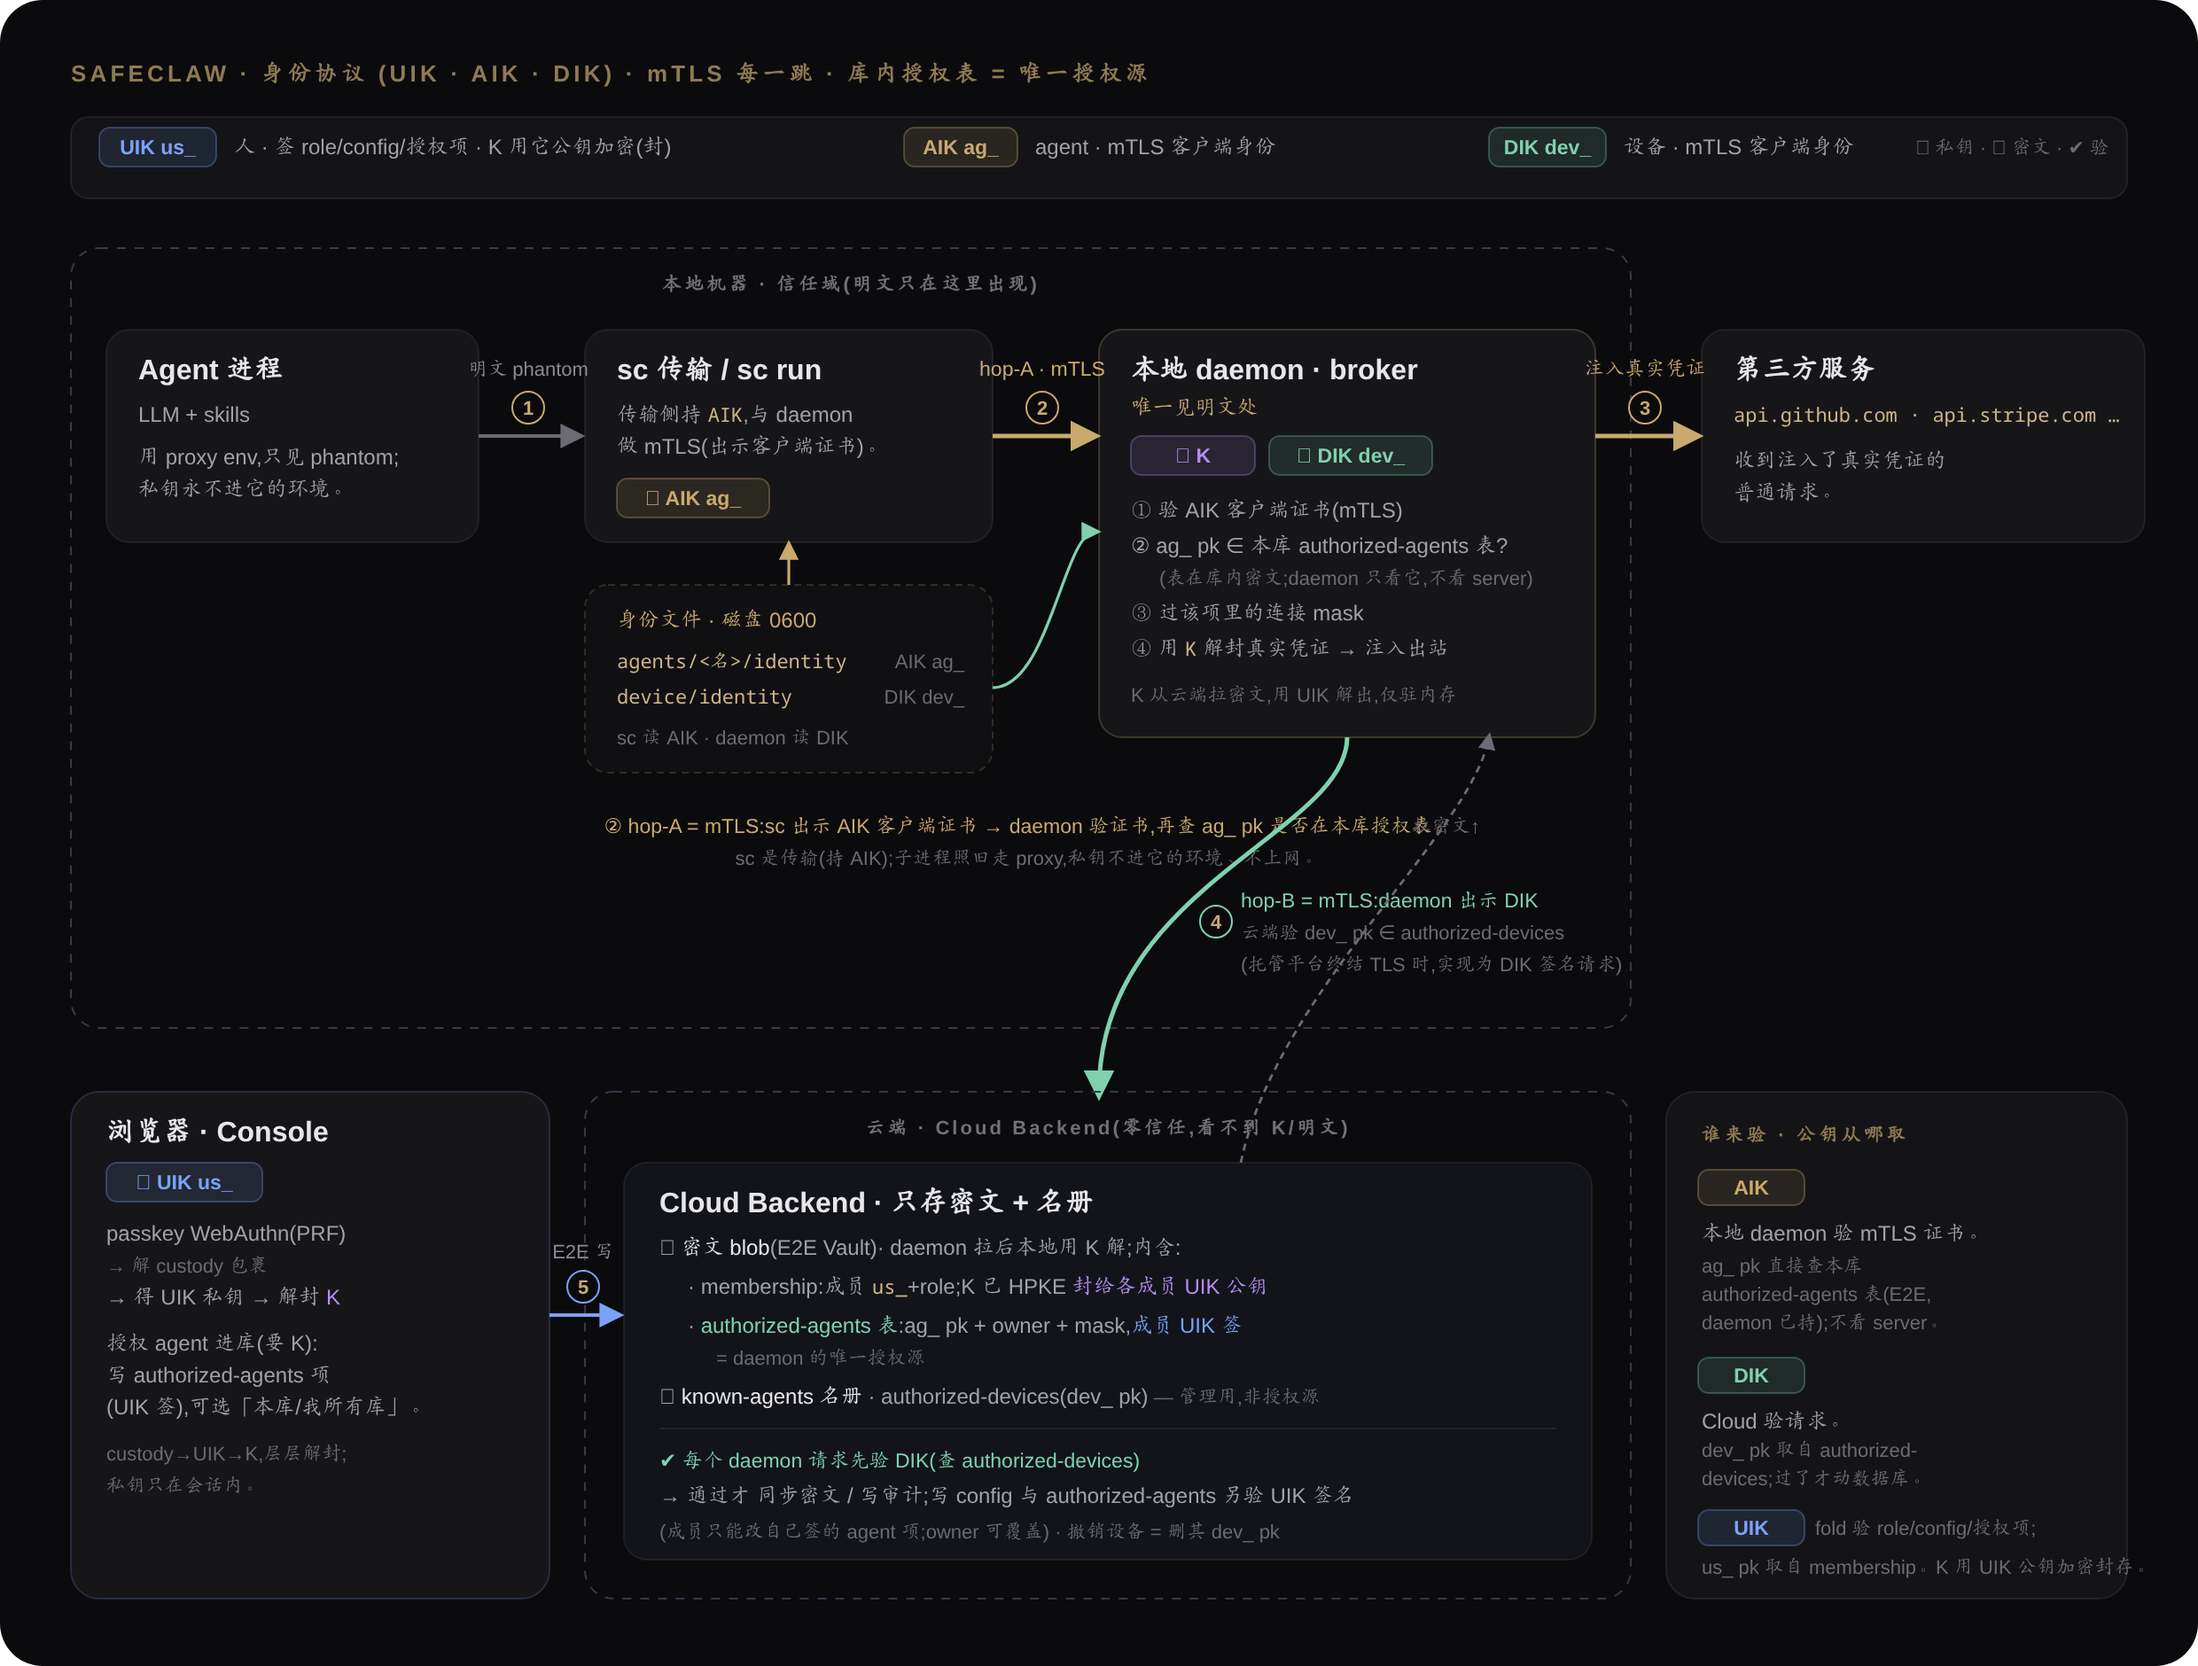
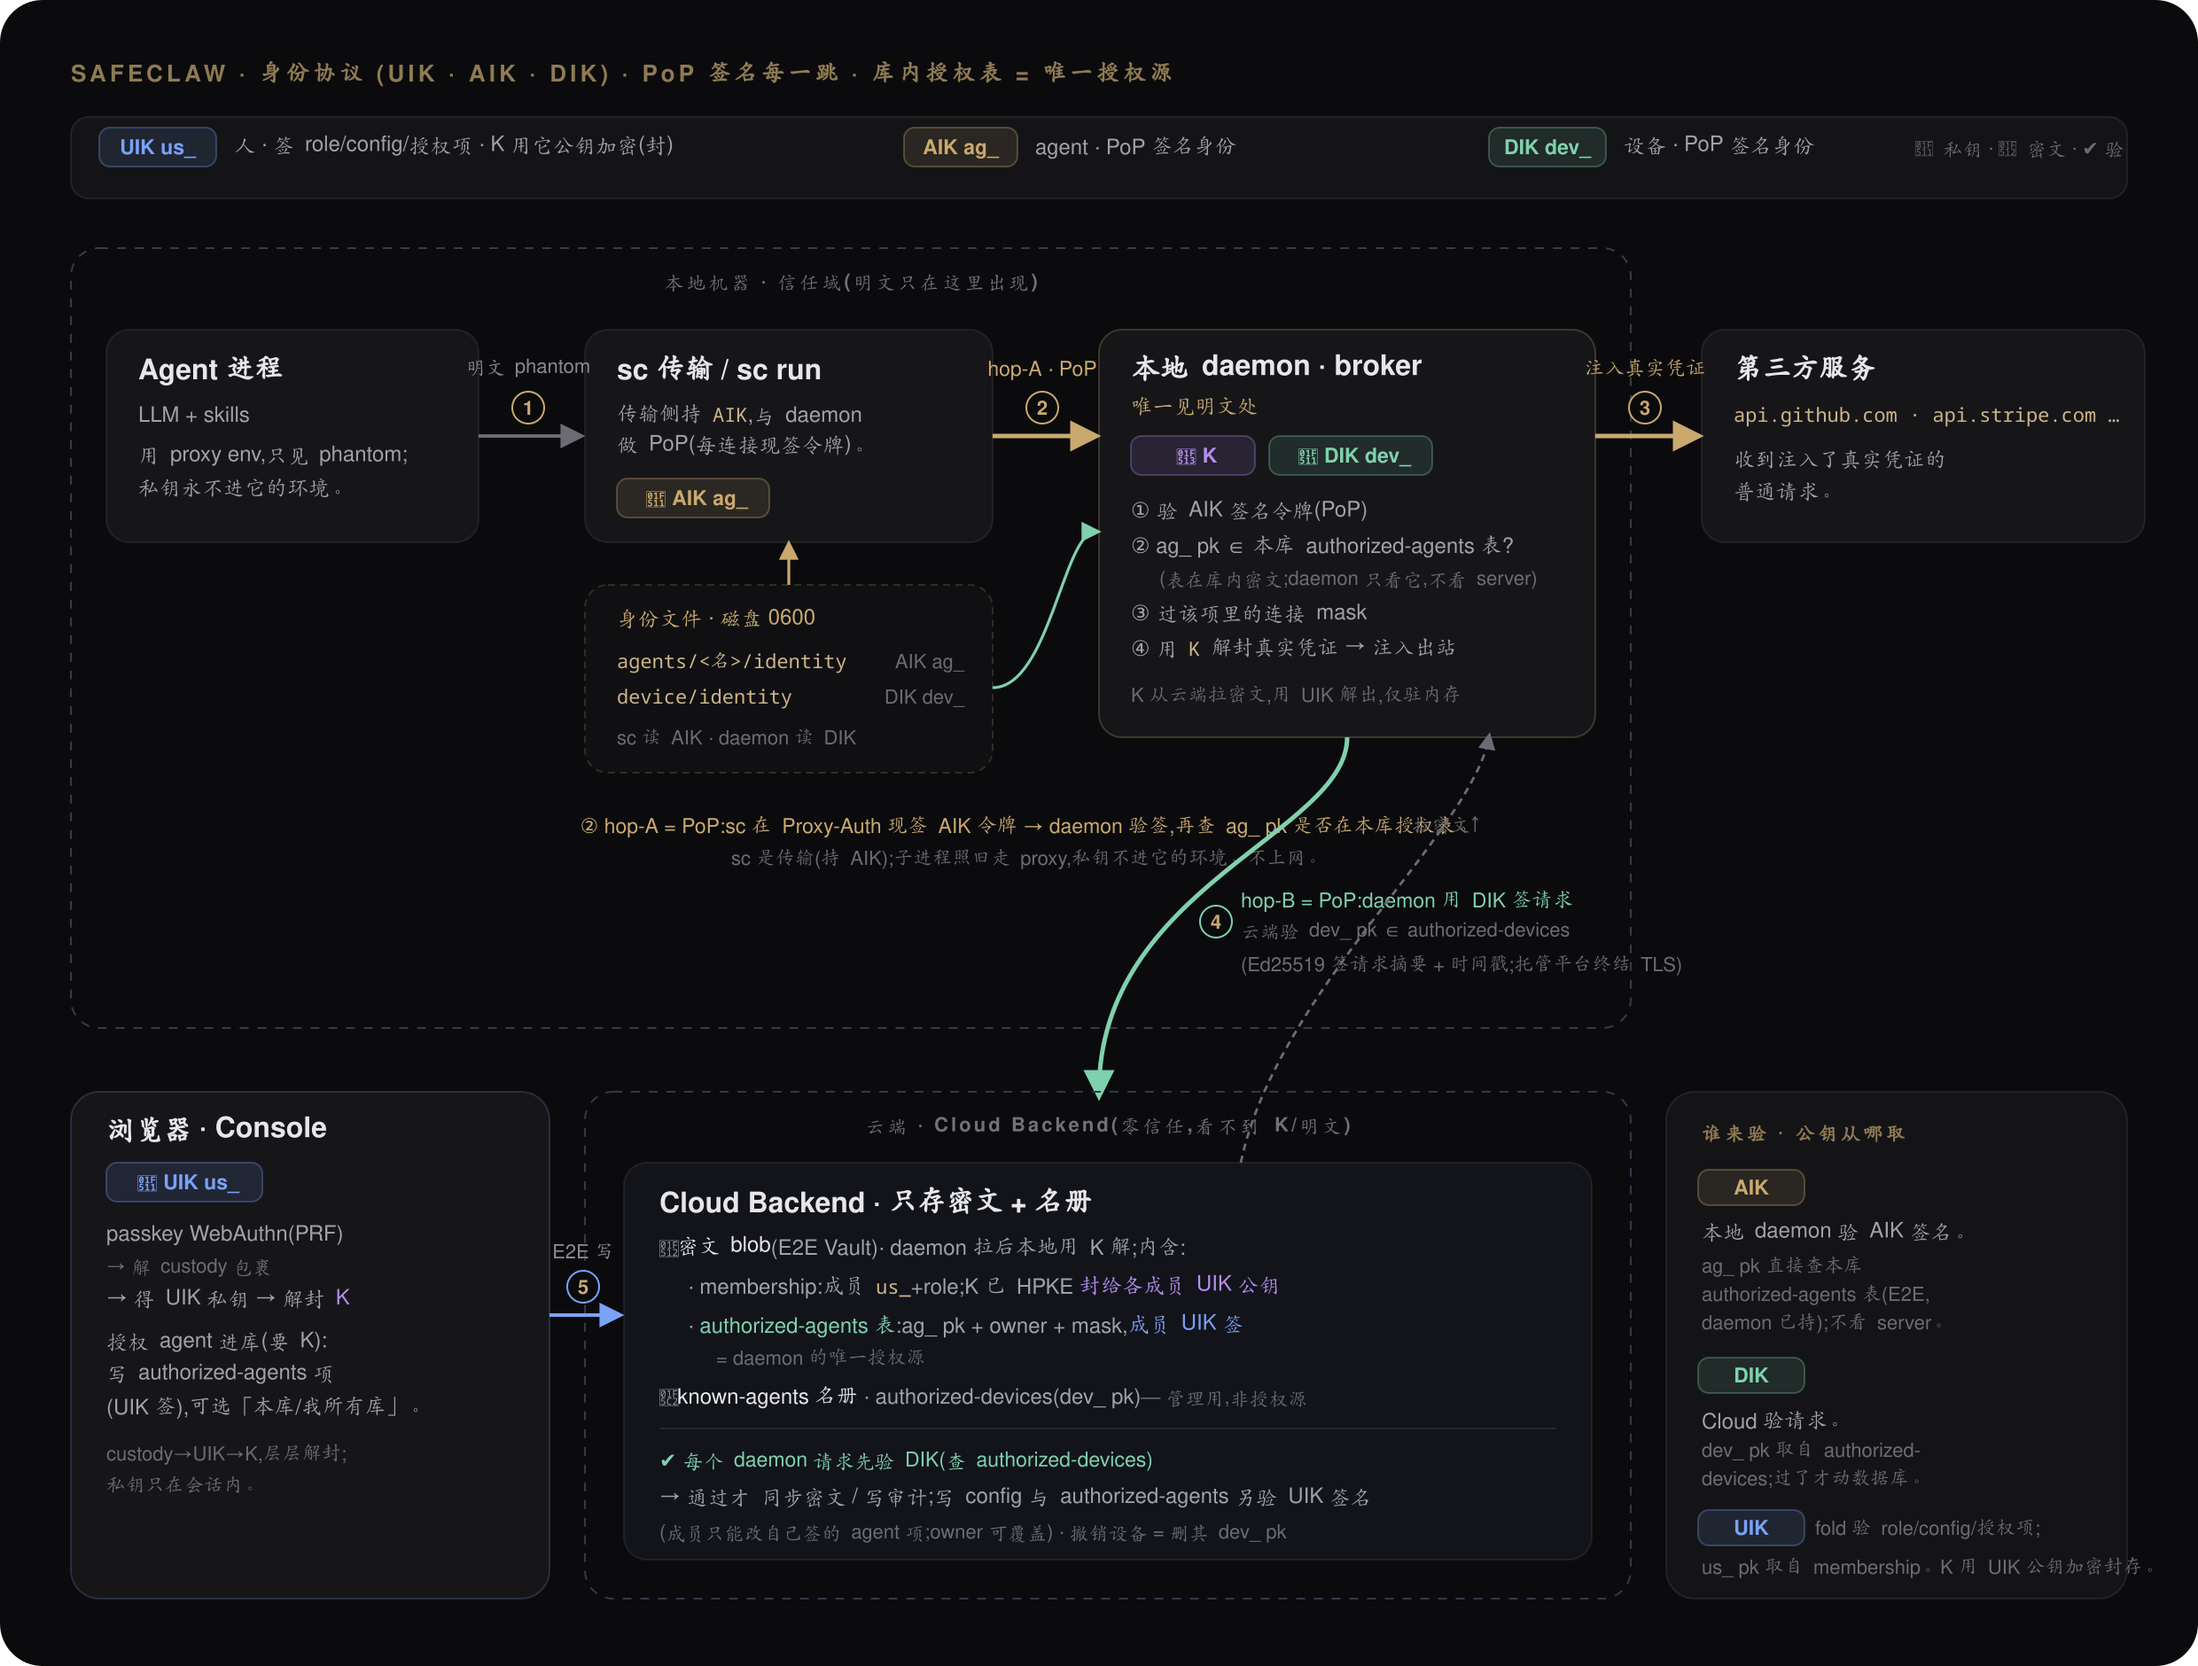
docs+core: record hop-A/hop-B built as app-layer PoP, not mTLS (residue sweep)
Post-wave stale-design cleanup (comments/docs only, no behavior change):
- design/agent-device-identity-mtls.md: add a top banner + a decision-log
  reversal line recording that BOTH hops were built as application-layer PoP
  (DPoP-style, RFC 9449), not a TLS client-cert handshake — hop-A = AIK-signed
  Proxy-Authorization token, hop-B = DIK-signed request. The mTLS framing stays
  as design history (per the keep-decision-history rule); readers are told to
  read mTLS/client-cert as PoP for the built system. Authz model (§11) unchanged.
- design/identity-protocol.svg (+ regenerated .png): relabel the hop-A/hop-B
  'mTLS / client cert' text as PoP signatures; authz panel was already current.
- cli/agent.rs: the AIK-pubkey send is for the known-agents roster/discovery
  (the daemon's authz is the E2E authorized-agents table); drop the stale 'once
  mTLS ships' / 'AIK authorized-set the daemon verifies' framing; note the agent
  now also mints an AIK; 'until the AIK PoP path is enforced' (was 'mTLS flips').
- state.rs / identity_file.rs: 'AIK (PoP) path' / 'app-layer PoP transport'
  (were 'mTLS').

Confirmed NOT residue (left intact): AgentAdmission open/gated (already deleted),
config-sig dual-path fallback + vault_config_ids gate (cutover-scoped compat),
NoUik/fmt1 + vault_keys.author_account_id (census-scoped), dual-auth legacy
paths. cargo check --all-targets clean.

diff --git a/src/cli/agent.rs b/src/cli/agent.rs
@@ -4,7 +4,9 @@
 //! key; the cloud stores only its hash; the key works on ANY of the account's
 //! paired devices (the daemon syncs the hash-set + validates locally). Auth is
 //! this device's device-key (account-scoped), so `sc agent` works on any
-//! paired machine. See [[project_vault_agent_architecture_2026_06_25]].
+//! paired machine. As of the identity wave each agent ALSO mints an AIK keypair
+//! (hop-A PoP identity) here; the api-key stays as the dual-auth legacy path.
+//! See [[project_vault_agent_architecture_2026_06_25]].
 
 use std::time::Duration;
 
@@ -71,9 +73,11 @@ async fn add(args: AgentAddArgs) -> Result<(), String> {
     // ── Mint this agent's AIK (possession-proven identity; identity wave §2) ──
     // Ed25519 keypair, self-certifying `ag_…` id. The private SEED never leaves
     // this disk (0600) and never enters the agent's env — only the PUBLIC key is
-    // registered with the cloud (which relays it to the authorized-agents set the
-    // daemon verifies once mTLS ships). Persisted only AFTER the cloud accepts
-    // the registration, so a failed create leaves no orphan file.
+    // registered with the cloud (for the known-agents roster / discovery; the
+    // daemon's real authz source is the E2E authorized-agents table). hop-A
+    // verifies the AIK per-CONNECT via a Proxy-Authorization PoP token
+    // (DPoP-style), NOT mTLS. Persisted only AFTER the cloud accepts the
+    // registration, so a failed create leaves no orphan file.
     let (seed, ag_id) = crate::identity_file::mint(crate::identity::IdKind::Agent);
     let (aik, _) = crate::identity_file::resolve(crate::identity::IdKind::Agent, &seed);
     let aik_pub = data_encoding::BASE64.encode(&aik.public_bytes());
@@ -83,8 +87,9 @@ async fn add(args: AgentAddArgs) -> Result<(), String> {
     let body = serde_json::json!({
         "label": args.name,
         "tier": "agent",
-        // Additive: an older backend ignores these; a current one records
-        // the pubkey for the AIK authorized-set (dual-auth window §7).
+        // Additive: an older backend ignores these; a current one records the
+        // pubkey in the known-agents roster (management/discovery — the daemon's
+        // authz is the E2E authorized-agents table, not this server record).
         "agent_id": ag_id,
         "agent_pubkey": aik_pub,
     });
@@ -110,7 +115,7 @@ async fn add(args: AgentAddArgs) -> Result<(), String> {
     // Print the agent's env as dotenv lines: the daemon's API face, the AIK
     // identity PATH (a path, not a secret — the possession-proven identity, the
     // dual-auth target), and the legacy api-key (still the ACTIVE transport until
-    // mTLS flips; kept so nothing bricks — design §7). The agent appends ONE
+    // the AIK PoP path is enforced; kept so nothing bricks — design §7). The agent appends ONE
     // command's stdout to its own `.env` and never assembles a value. STDOUT
     // only; stderr guidance carries NO secret.
     //

diff --git a/src/state.rs b/src/state.rs
@@ -245,7 +245,7 @@ pub struct SecretsCache {
     /// The vault's **authorized-agents table** (design §11.1), keyed by `ag_id`
     /// (`derive_id(Agent, pubkey)`). Snapshot of `view.aux.agents` at
     /// unlock/refresh. **Presence = authorized**; an `ag_id` with no entry is not
-    /// in the table. Consulted ONLY on the AIK (mTLS) path where the daemon knows
+    /// in the table. Consulted ONLY on the AIK (PoP) path where the daemon knows
     /// the presented `ag_id`; the legacy Basic api-key path (dual-auth window)
     /// carries an api-key prefix, which is never in this `ag_`-keyed table → the
     /// mask lookup misses → the caller falls to the legacy allow (nothing bricks

diff --git a/src/identity_file.rs b/src/identity_file.rs
@@ -4,7 +4,7 @@
 //! (`design/agent-device-identity-mtls.md` §5): same JSON shape, same 0600
 //! discipline, same "the seed is the secret, the id is the derived handle"
 //! contract. This is the identity-wave's Phase 2 foundation — minting + on-disk
-//! custody — consumed by the mTLS transport (Phase 3) and by `sc agent add` /
+//! custody — consumed by the app-layer PoP transport (Phase 3) and by `sc agent add` /
 //! `sc login`.
 //!
 //! Paths (§5):

diff --git a/design/agent-device-identity-mtls.md b/design/agent-device-identity-mtls.md
@@ -5,6 +5,27 @@ One coherent wave: replace the two BEARER credentials (agent api-key, device pai
 possession-proven **keypair identities**, verified by **mutual mTLS**, symmetric in naming /
 paths / lifecycle. No loose ends, no half-migration. Code AFTER this doc.
 
+> ⚠ **BUILT AS application-layer PoP, NOT a TLS client-cert handshake (realized 2026-08-10).**
+> This doc (and its name) frame the mechanism as "mutual mTLS" — that is the design abstraction and
+> the intended *property*. What was actually IMPLEMENTED on **both** hops is an application-layer
+> **proof-of-possession (PoP)** signature — the DPoP pattern (RFC 9449): a fresh keypair-signed token
+> in the standard auth header, not a TLS client-cert handshake. mTLS is the transport-layer form of
+> the same "prove you hold the private key" property; we ship the app-layer form because the TLS
+> client-cert channel isn't available on either hop.
+> - **hop-A (agent→daemon):** the AIK signs a per-CONNECT token carried in `Proxy-Authorization`
+>   (`identity::agent_proxy_pop_input` → `scpop1.<pub>.<ts>.<sig>`), verified against the E2E
+>   authorized-agents table. A standard client can't present a client cert to a forward proxy (and
+>   hudsucker's inbound can't surface one to its authz handler), so the §1/§4/§9.1 "present the
+>   cert / mTLS-wrapping shim" wording is the SUPERSEDED plan — see the decision-log reversal below.
+>   Built = `agent_pop` + `proxy/handler` PoP verify + the `sc`-transport shim (`cli/agent_shim`).
+> - **hop-B (daemon→cloud):** the DIK signs each request (`identity::device_request_signature_input`),
+>   verified by the Node backend against the device's registered pubkey (Railway terminates TLS, so no
+>   client cert reaches the app). This doc's decision-log already recorded hop-B as a signed request.
+>
+> Read every "mTLS / client cert" below as "PoP signature" for the built system. The **authz** model
+> (§11 authorized-agents table) is unchanged and fully current — only the *auth transport* is PoP,
+> not mTLS. Code refs: `design/sudp-identity-signing-revision.md` is a different (甲) wave.
+
 **Status update 2026-08-10:** the agent-authorization model was reworked to its simplest stable
 form. **GROUND TRUTH = §11 (LOCKED 2026-08-10)** for authz + connect/install flows; §1/§4/§5/§6/§7/§8
 still hold for mTLS / multi-agent / naming / migration / threat model; **§2/§3 admission framing is
@@ -16,6 +37,7 @@ SUPERSEDED by §11.** Diagram: `design/identity-protocol.svg`. Post-compact exec
 - **Auth = mutual mTLS both hops** (AIK client cert to daemon; DIK to cloud) · a big-co reviewer named requestor-identity-check = mTLS · not a bearer, not per-op signing.
 - **hop-A needs the `sc` transport to present the cert** (generic HTTP clients can't client-cert an HTTPS proxy via env) · faithful to "sc transport does the mTLS" · NOT a data-path change the agent sees.
 - **hop-B realized as a DIK-signed request** when the cloud sits behind TLS-terminating hosting · same mutual-auth outcome · literal TLS-client-cert not available there.
+- **hop-A ALSO realized as a signed token, NOT a client cert** (2026-08-10, REVERSAL of the "present the cert" line above) · a forward proxy exposes no client-cert channel to a generic client, and hudsucker's inbound can't surface a client cert to its authz handler · so the AIK signs a per-CONNECT `Proxy-Authorization` PoP token (DPoP-style, RFC 9449), verified against the authorized-agents table — same "possession-proven, not a bearer" outcome. **Both hops = app-layer PoP; see the top banner.**
 - **Authz = explicit in-vault authorized-agents TABLE, UIK-signed; daemon reads ONLY it** (§11) · one server-blind source, no trust in a server agent→account map · REVERSED two earlier tries: "presence = admitted grant" (Phase-1) and "membership-derived admission" (interim) — both needed a mode/join; the table is simpler + stable.
 - **Dropped open/gated modes** · a permanent two-state toggle to solve a one-time migration is complexity-for-nothing · the table ships WITH AIK so the legacy api-key path is untouched → nothing bricks.
 - **Account known-agents roster = management/discovery only, NOT authz** · keeps machine identity in one place (agent≡api-key) · does not entangle the daemon's authz decision.
